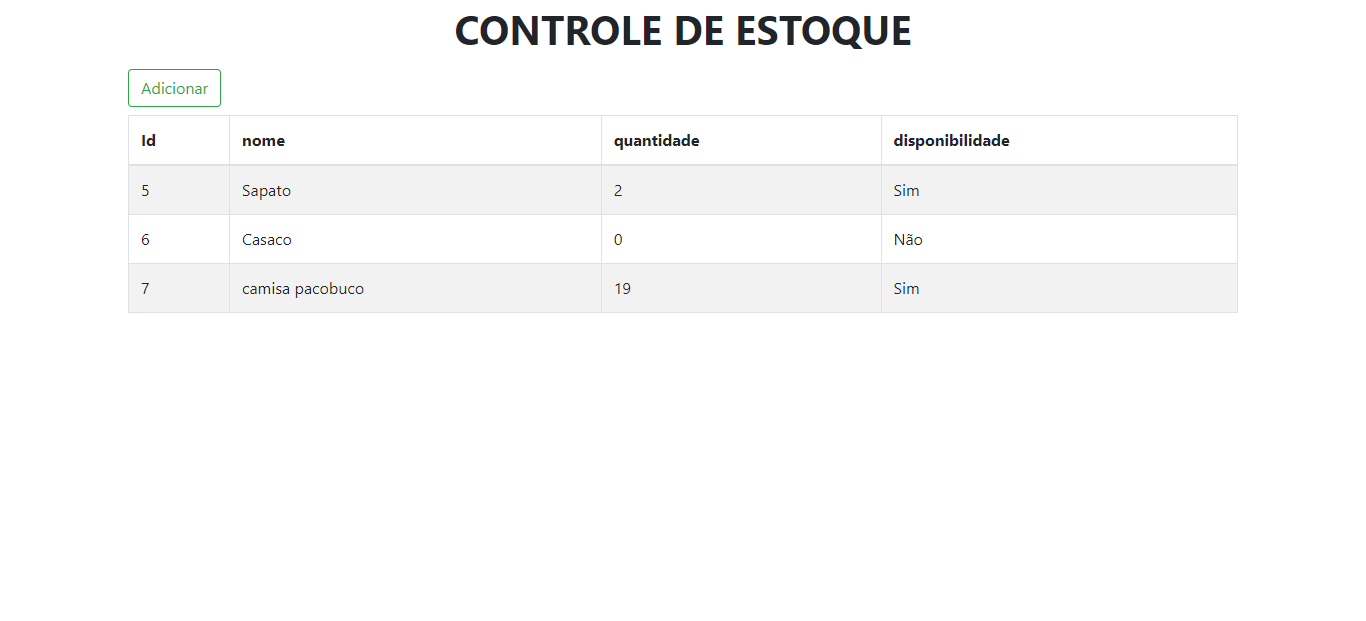
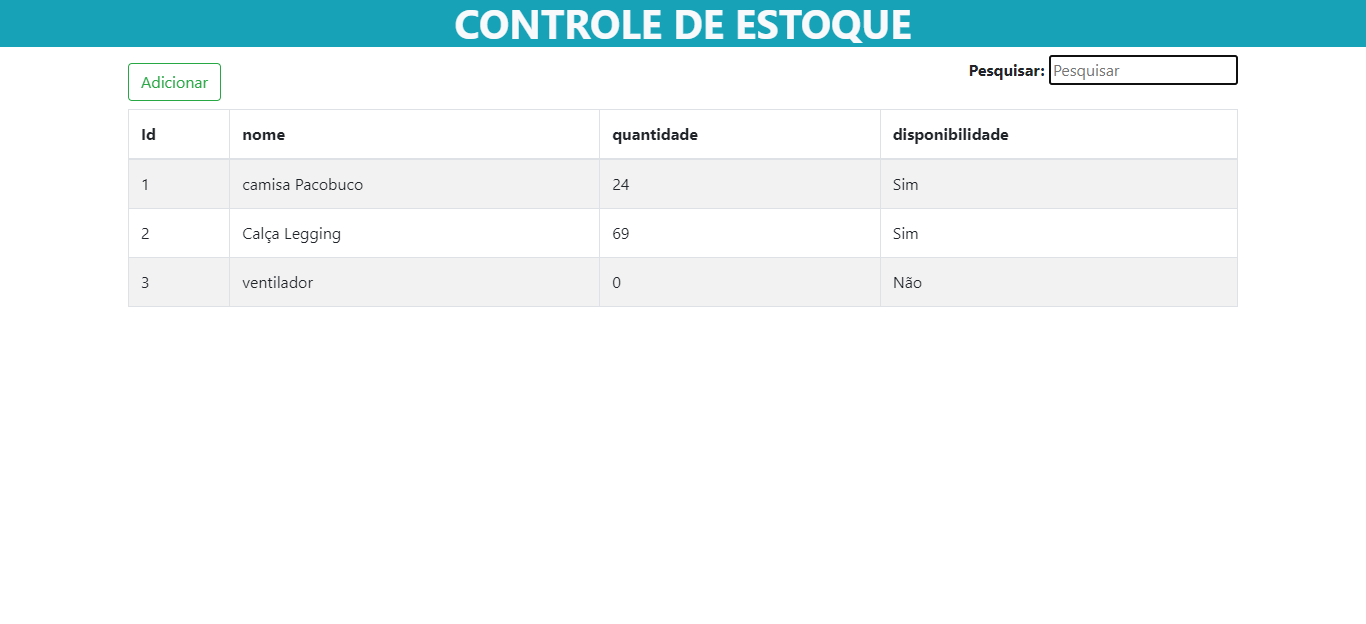
feat: Visual levemente alterado.

diff --git a/estoquefront/Home.html b/estoquefront/Home.html
@@ -14,8 +14,12 @@
 </head>
 
 <body>
-    <div class="container">
-        <h1 class="text-center my-2 text-uppercase font-weight-bold">Controle de estoque</h1>
+    <div class="w-100 bg-info mb-2">
+        <h1 class="text-center my-0 text-uppercase font-weight-bold text-light">Controle de estoque</h1>
+
+    </div>
+    <div class="container"  >
+        
         <button type="button" class="btn btn-outline-success my-2" data-toggle="modal" data-target="#modalCriar">Adicionar</button>
         <div class="float-right">
             <label for="pesquisarNome" class="font-weight-bold">Pesquisar:</label>
